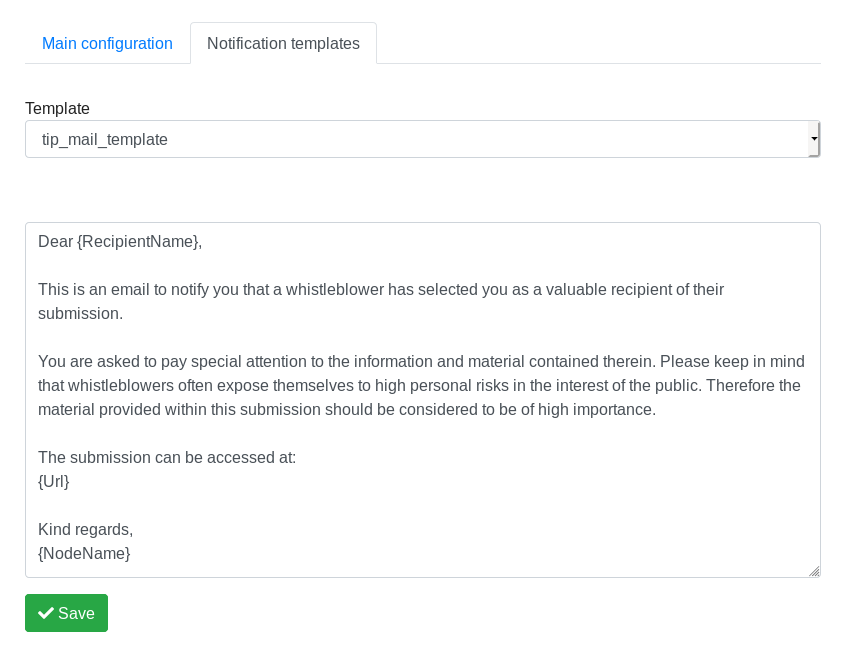
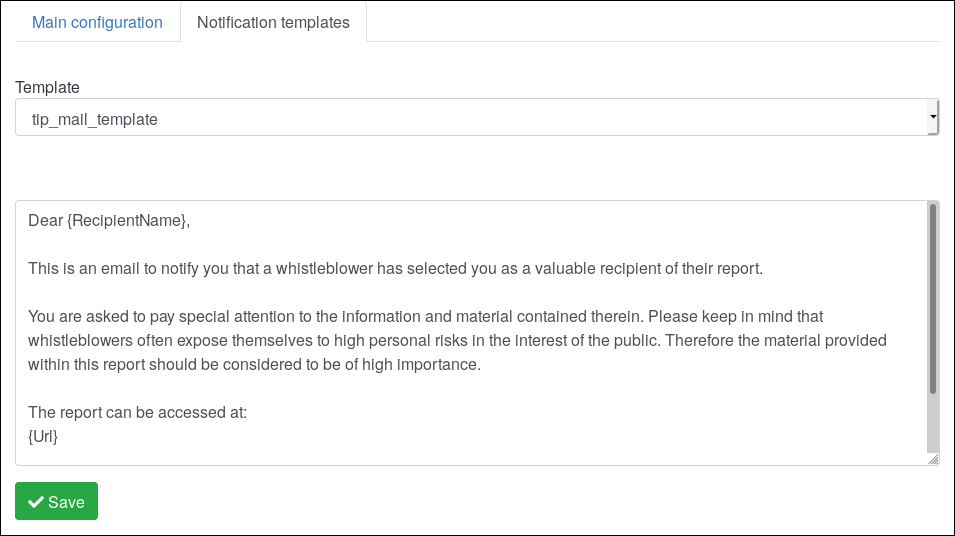
[docs] Update documentation images

diff --git a/documentation/user/admin/CommonConfigurations.rst b/documentation/user/admin/CommonConfigurations.rst
@@ -4,75 +4,22 @@ Common configurations
 Configure the logo
 -------------------------
 
-The first thing you want to give to your whistleblowing site is a branding identity; this could be done by loading a logo.
+The first thing you want to give to your whistleblowing site is a branding identity; this could be done by loading a logo in section Site settings / Main configuration.
 
-.. image:: imgs/logo.png
+.. image:: imgs/site_settings.png
 
 Scroll down along the page to reach the "Save" button, click on it and have your logo and favicon applied.
 
 Enable languages
 ---------------------------
 
-You may want your GlobaLeaks installation served on more than one language, other the one selected as primary during First Configuration (todo: insert cross reference).
+You may want your GlobaLeaks installation served on more than one language
 
-To do so, in the "Administration Interface - General Settings" page, select the "Languages" tab: a list of all available languages in shown. Select the alternative choosen langauge(s) and scroll down trhrough the page to the "Save" button, click it to save your choices.
+To do so, in the section "Site settings / Languages" select the languages you would like and add them.
 
-Note that in the same interface you can change, through a drop down menu, the default language in which GlobaLeaks installation is served.
+Note that in the same interface you can mark the default application language.
 
 .. image:: imgs/languages.png
-
-Configure HTTPS
----------------
-
-It is quite important to configure HTTPS for your GlobaLeaks installation. Nowadays, every website should protect its users with HTTPS, and this is so much true for a whistleblowing system. HTTPS helps prevent malicioous actors from tampering the communications between your GlobaLeaks installation and the browser of the users.
-
-To configure HTTPS, go to "Administration interface - Network settings" and select the "HTTPS Settings" tab. If not already filled with the hostname of the GlobaLeaks installation you are configuring, just fill the "Hostname" field with the FQDN and click on the "Verify" button.
-
-.. image:: imgs/HTTPS_Conf_1.png
-
-If the verification process is successful, just click on the "Proceed" button; otherwise, you have to verify that the domain name you choose is correctly set up.
-
-.. Note::
-   Keep in mind that domain name propagation over DNS can take some time.
-
-.. image:: imgs/HTTPS_Conf_2.png
-
-You then have to choose among two proposed options:
-
-- **Automatic** : the entire process of requesting, enabling and renewing certificates will be handled from the Let's Encrypt Certificate Authority. The parent organization, the Internet Security Research Group, is committed to providing the service for free. (You can read more about this on https://letsencrypt.org)
-
-- **Manual** : if you already have a certificate from a Certificate Authority, this is your option. A wizard will guide you through the process of installing said certificate
-
-Automatic HTTPS Configuration
-.............................
-To configure HTTPS the easy way, with free certificate from Let's Encrypt (https://letsencrypt.org), just click on the "Proceed" button in the "Automatic" box
-
-.. image:: imgs/HTTPS_Config_Automatic_Option_1.png
-
-This can take a little and the "loading" symbol is shown
-
-.. image:: imgs/HTTPS_Config_Automatic_Option_2.png
-
-When ready, the system will prompt you to read the Term of Service from the Let's Encrypt site by clicking on the button "Read the Term of Service".
-If you agree to accept said TOS, check the checkbox "I agree to the Term of Service" and click on the "Proceed" button, this will start the automatic generation and installation of the Certificate.
-.. image:: imgs/HTTPS_Config_Automatic_Option_3.png
-
-When this process is completed, you will be prompted to immediately activate the configuration by clicking on the "Enable" button, or review the configuration by clicking on "Review" button.
-.. image:: imgs/HTTPS_Config_Automatic_Option_4.png
-
-By clicking on "Enable", the system will provide to configure entirely the feature and you will be shown this alert box:
-.. image:: imgs/HTTPS_Automatic_Conf_Ongoing.png
-
-When finished you will be disconnected ad an admin and your browser redirected to the https version of the platform, where you can login to follow up with configuration.
-
-Manual HTTPS Configuration
-..........................
-.. image:: imgs/HTTPS_Config_Manual_Option_1.png
-
-The interface can generate the Private Key and the Certificate Signing Request. The Certificate Signing Request has to be provided to a Certificate Authority (usually, your ISP can help you with this) to retrieve a Certificate. After having validated your request and your ownership of the hostname, the Certificate Authority will issue you a Certificate and provide a file containing Intermediate Certificates.
-Load both the Certificate and the file containing the Intermediate Certificates to complete the HTTPS setup.
-.. HINT::
-Please note that the file format expected for all files uploaded is PEM. Sometimes Certificate Authorities will provide certificates in DER format which must be converted to PEM.
 
 Configure notification settings
 -------------------------------
@@ -113,23 +60,10 @@ TODO
 
 Configure contexts
 ------------------
-The context is sort a conceptual container of your whistleblowing initiative. To better understand this, just think about a whistleblowing initiative devoted to gather information about ethical misconducts infringing the ethical code of a governmental agency or of a company. When you configure the Context you will assign to it a name that can be evocative of the mission related to this context so that the whistleblowers know that this is the right place where to communicate their data. Then you would like to describe in more detail the context itself, so that whistleblower are informed that this is part of a whole process in which specific persons, the receivers, will receive and follow up on the data they're submitting.
-
-To configure a Context, log in as an admin, go to the administration interface, select "Context configuration" in the menu on the left of the page and fill the text field with the name choosen for the Context, then click on "Add" button.
-.. image:: imgs/Context_conf_1.png
-
-Then you will see that the new Context is addedd to the page and to access the configuration interface for this context, click on the "Edit" button.
-.. image:: imgs/Context_conf_2.png
-
-The configuration interface specific of the selected context is shown and you can proceed with filling of the various field.
-.. image:: imgs/Context_conf_3.png
-
-The most important field in this section at this stage of the configuration process is surely the **"Text shown on top of the interface for selecting recipients"**: this text will be shown in the interface exposed to the whistleblowers. So be sure to use suitable and appealing terms and phrases and be clear in explaining which data are accepted, who will be the recipients, which is the follow up of the submitted data. Just think of this text as the main tool to convince your source to submit data through this channel.
-Once completed this task, click on "Save" button.
-You can verify the appearance by visiting ...
+TODO
 
 Customize the graphic layout
--------------------------
+--------------------------
 Example 1: custom background
 ............................
 This CSS example shows how to customize the Background Color of the application.

diff --git a/documentation/user/admin/UserInterface.rst b/documentation/user/admin/UserInterface.rst
@@ -117,7 +117,7 @@ By default the software implements a Default Questionnaire with a single Step an
 
 The system with its basic configuration completed with the initial Platform wizard is also already configured with this Default Questionnaire pre-associated to the Default Context.
 
-Depending on your project needs you could create specific questionnaire for each of your different submissions' contexts.
+Depending on your project needs you could create specific questionnaire for each of your different reports' contexts.
 
 .. image:: imgs/questionnaires.png
 
@@ -168,7 +168,7 @@ Each of the software question types make it possible to configure the following 
 
   Required: Set this field if you want this question to be mandatory
 
-  Preview: Set this field if you want the answers to this question to appear in the preview section of the submission list 
+  Preview: Set this field if you want the answers to this question to appear in the preview section of the  list 
 
 Question properties by question type
 .....................................
@@ -197,7 +197,7 @@ A whistleblowing channel is typically defined by the following main characterist
     Name: the name of the channel
     Image: an image to identify the channel
     Description: a description of the channel
-    Recipients: the set of recipients that will receive submissions sent to this channel
+    Recipients: the set of recipients that will receive reports sent to this channel
     Questionnaire: the questionnaire that will be proposed to whistlelowers selecting this channel
     Submission expiration: the data retention policy for the channel
 
@@ -210,17 +210,17 @@ Depending on your project needs here you could create additional Contexts and co
 Submissions expiration
 ......................
 The software enables to configure a data retention policy for each channel.
-This is a fundamental property of the whistleblowing channel that makes it possible to configure automatic secure deletion of submissions after a certain period of time.
-This setting should be configured in relation to the risk of the channel in order to limit unndeded exposure of the submissions received therein.
+This is a fundamental property of the whistleblowing channel that makes it possible to configure automatic secure deletion of reports after a certain period of time.
+This setting should be configured in relation to the risk of the channel in order to limit unndeded exposure of the reportss received therein.
 
-By default a context is configured with a submission expiration of 30 days.
+By default a context is configured with a report expiration of 30 days.
 
 Case management
 ---------------
 This section is intended to host all the main case management feature that will be offered by the software.
-Currently it hosts the possibility to define submissions statuses and substatuses intended to be used by Recipients while working on the submissions.
+Currently it hosts the possibility to define reports statuses and substatuses intended to be used by Recipients while working on the reports.
 
-By default the system includes the following submission statuses:
+By default the system includes the following report statuses:
 
    1. New
 
@@ -230,7 +230,7 @@ By default the system includes the following submission statuses:
 
 Within this section you may add additional Statuses between the State Open and Closed and you can furtherly define Substatuses for the Closed status (e.g. Archived / Spam)
 
-.. image:: imgs/submission_statuses.png
+.. image:: imgs/report_statuses.png
 
 Notification settings
 ---------------------
@@ -294,7 +294,7 @@ IP Access Control
 .................
 Here you can configure IP based Access Control.
 
-.. image:: imgs/ip_access_control.png
+.. image:: imgs/access_control.png
 
 Suggested configurations are:
 
@@ -308,12 +308,22 @@ TODO
 
 .. image:: imgs/advanced_settings.png
 
-.. image:: imgs/url_shortener.png
+.. image:: imgs/url_redirects.png
 
 .. image:: imgs/anomaly_thresholds.png
 
-System overview
+Audit log
 ---------------
 TODO
 
-.. image:: imgs/system_overview.png
+.. image:: imgs/audit_log1.png
+
+.. image:: imgs/audit_log2.png
+
+.. image:: imgs/audit_log3.png
+
+.. image:: imgs/audit_log4.png
+
+.. image:: imgs/audit_log5.png
+
+.. image:: imgs/audit_log6.png
